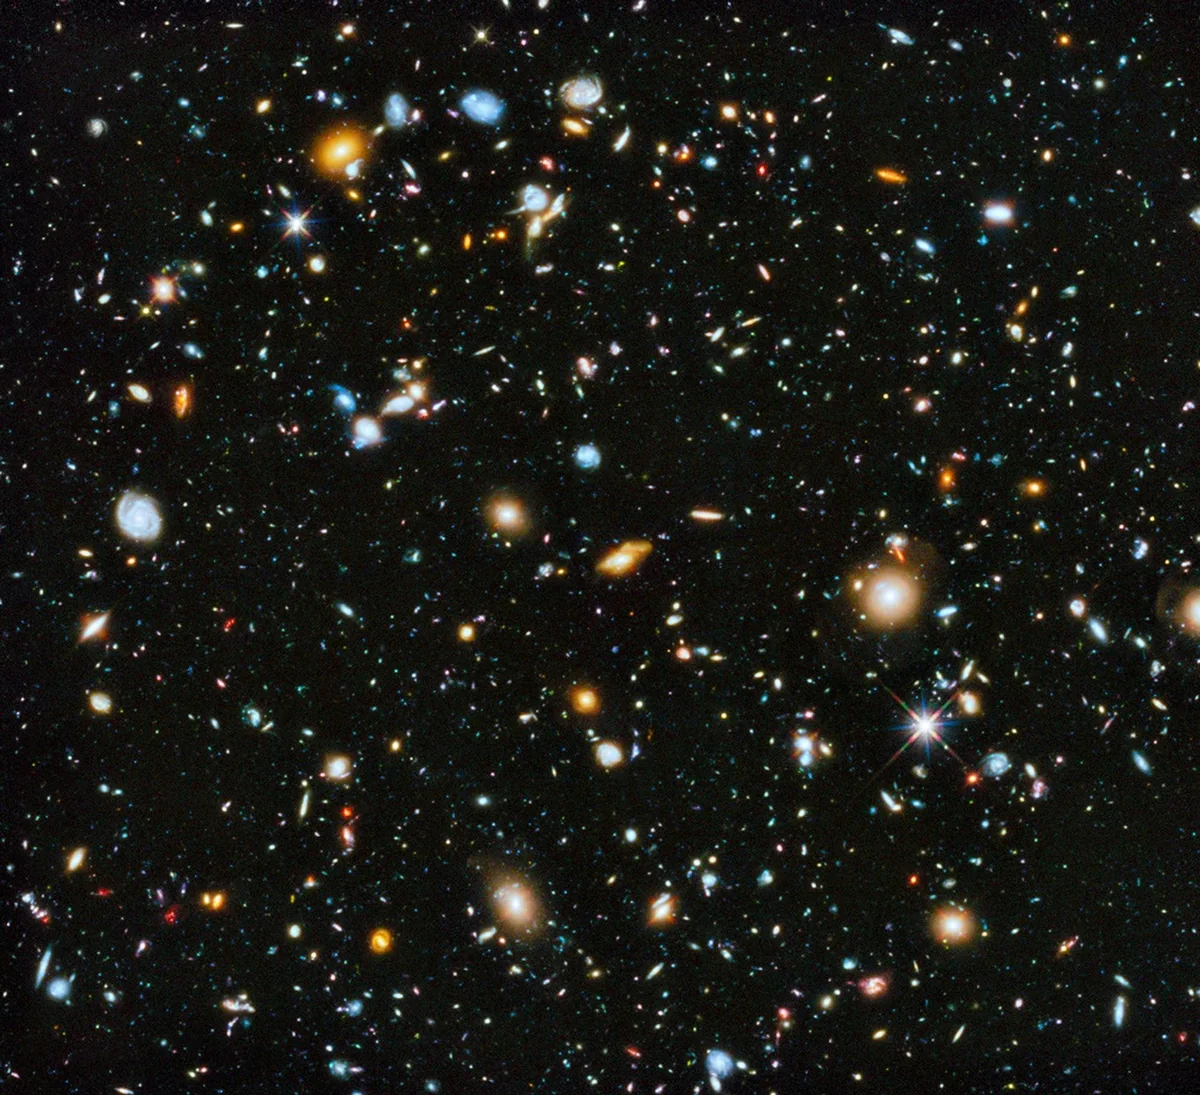
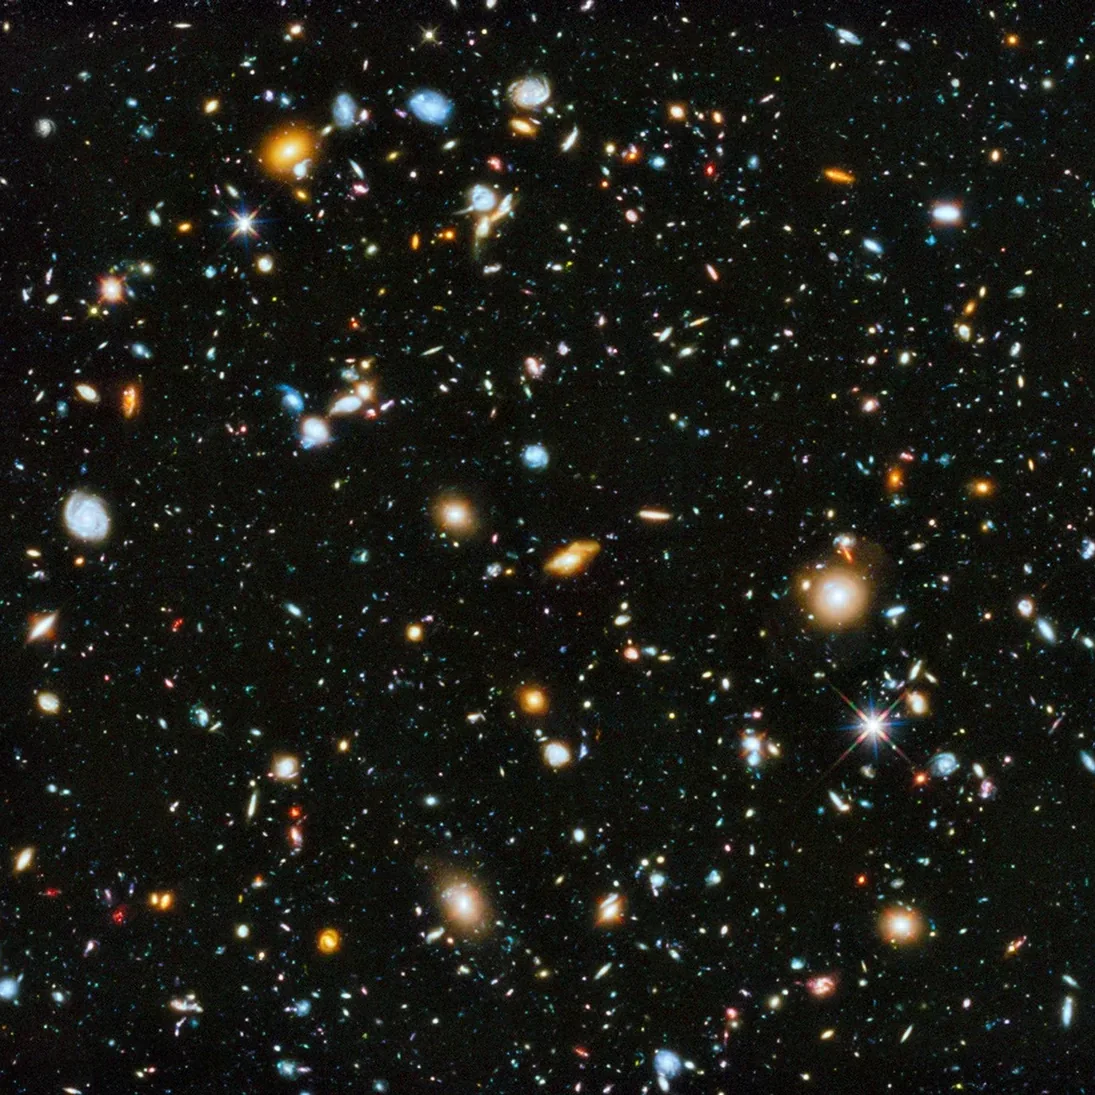
Fotos do díptico em formato quadrado e cache do CSS versionado
Claude-Session: https://claude.ai/code/session_012e9ULb55QacAC5L8V2L9uq

diff --git a/public/index.html b/public/index.html
@@ -19,7 +19,7 @@
   <link rel="preconnect" href="https://fonts.googleapis.com">
   <link rel="preconnect" href="https://fonts.gstatic.com" crossorigin>
   <link rel="stylesheet" href="https://fonts.googleapis.com/css2?family=Newsreader:opsz,wght@6..72,400;6..72,500;6..72,600&family=Manrope:wght@400;500;600;700&display=swap">
-  <link rel="stylesheet" href="/assets/styles.css">
+  <link rel="stylesheet" href="/assets/styles.css?v=4">
 </head>
 <body>
 <div class="min-h-screen bg-paper font-sans text-ink antialiased selection:bg-teal/20">
@@ -54,7 +54,7 @@
           <figure class="atria-fade [animation-delay:150ms]">
             <div class="rounded-lg border border-line/70 bg-card/80 p-2.5 shadow-xl shadow-ink/10 backdrop-blur-2xl sm:p-3">
               <div class="overflow-hidden rounded-sm ring-1 ring-ink/10">
-                <img src="/assets/hubble-deep-field.webp" alt="Hubble Deep Field: milhares de galáxias em um pequeno trecho do céu" class="aspect-square w-full object-cover" width="1200" height="1095">
+                <img src="/assets/hubble-deep-field.webp" alt="Hubble Deep Field: milhares de galáxias em um pequeno trecho do céu" class="aspect-square w-full object-cover" width="1095" height="1095">
               </div>
               <figcaption class="px-1 pt-3.5 pb-1 text-center">
                 <p class="font-display text-lg leading-snug text-balance">Hubble Deep Field: a foto mais importante da humanidade.</p>
@@ -65,7 +65,7 @@
           <figure class="atria-fade [animation-delay:300ms]">
             <div class="rounded-lg border border-line/70 bg-card/80 p-2.5 shadow-xl shadow-ink/10 backdrop-blur-2xl sm:p-3">
               <div class="overflow-hidden rounded-sm ring-1 ring-ink/10">
-                <img src="/assets/atria-deep-network.webp" alt="Atria Deep Network: uma rede real de contatos mapeada pela Atria" class="aspect-square w-full object-cover" width="1400" height="794">
+                <img src="/assets/atria-deep-network.webp" alt="Atria Deep Network: uma rede real de contatos mapeada pela Atria" class="aspect-square w-full object-cover" width="944" height="944">
               </div>
               <figcaption class="px-1 pt-3.5 pb-1 text-center">
                 <p class="font-display text-lg leading-snug text-balance">Atria Deep Network: a foto mais importante da sua carreira.</p>

diff --git a/public/analisar/index.html b/public/analisar/index.html
@@ -10,7 +10,7 @@
   <link rel="preconnect" href="https://fonts.googleapis.com">
   <link rel="preconnect" href="https://fonts.gstatic.com" crossorigin>
   <link rel="stylesheet" href="https://fonts.googleapis.com/css2?family=Newsreader:opsz,wght@6..72,400;6..72,500;6..72,600&family=Manrope:wght@400;500;600;700&display=swap">
-  <link rel="stylesheet" href="/assets/styles.css">
+  <link rel="stylesheet" href="/assets/styles.css?v=4">
 </head>
 <body>
 <div class="flex min-h-screen flex-col bg-paper font-sans text-ink antialiased selection:bg-teal/20">

diff --git a/public/analisar/obrigado/index.html b/public/analisar/obrigado/index.html
@@ -10,7 +10,7 @@
   <link rel="preconnect" href="https://fonts.googleapis.com">
   <link rel="preconnect" href="https://fonts.gstatic.com" crossorigin>
   <link rel="stylesheet" href="https://fonts.googleapis.com/css2?family=Newsreader:opsz,wght@6..72,400;6..72,500;6..72,600&family=Manrope:wght@400;500;600;700&display=swap">
-  <link rel="stylesheet" href="/assets/styles.css">
+  <link rel="stylesheet" href="/assets/styles.css?v=4">
 </head>
 <body>
 <div class="flex min-h-screen flex-col bg-paper font-sans text-ink antialiased selection:bg-teal/20">
